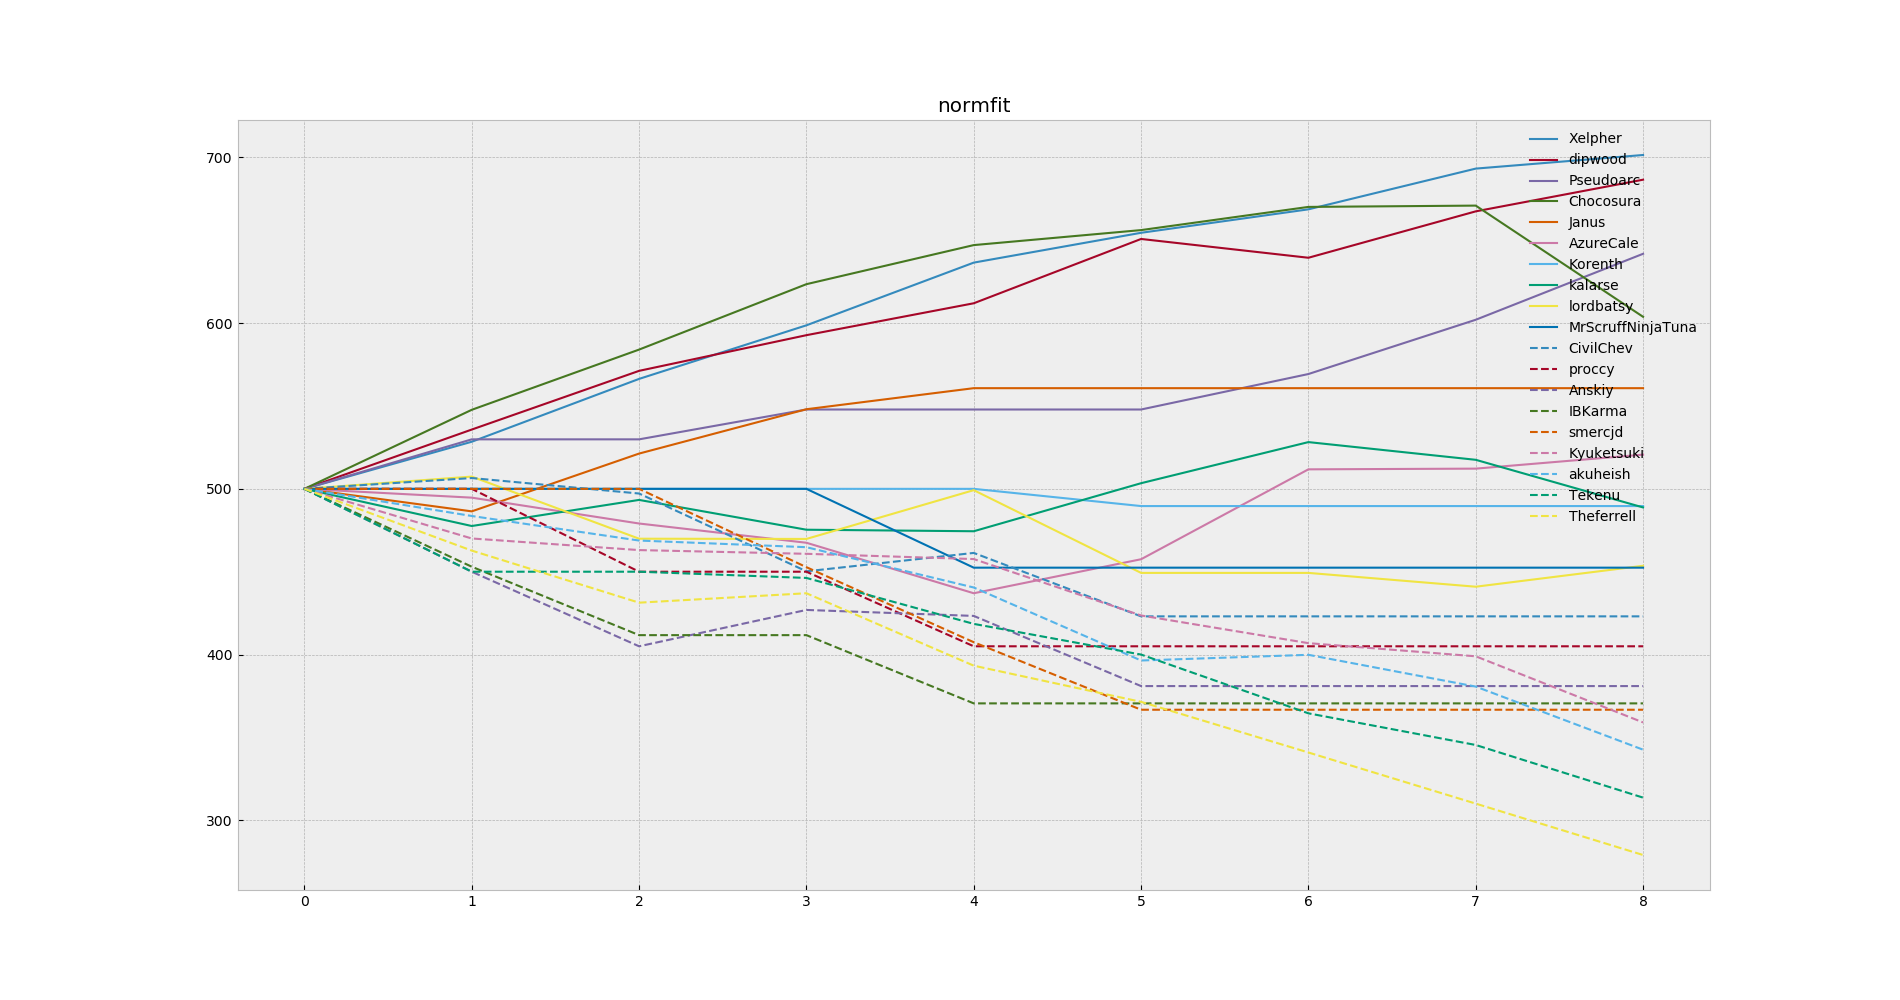
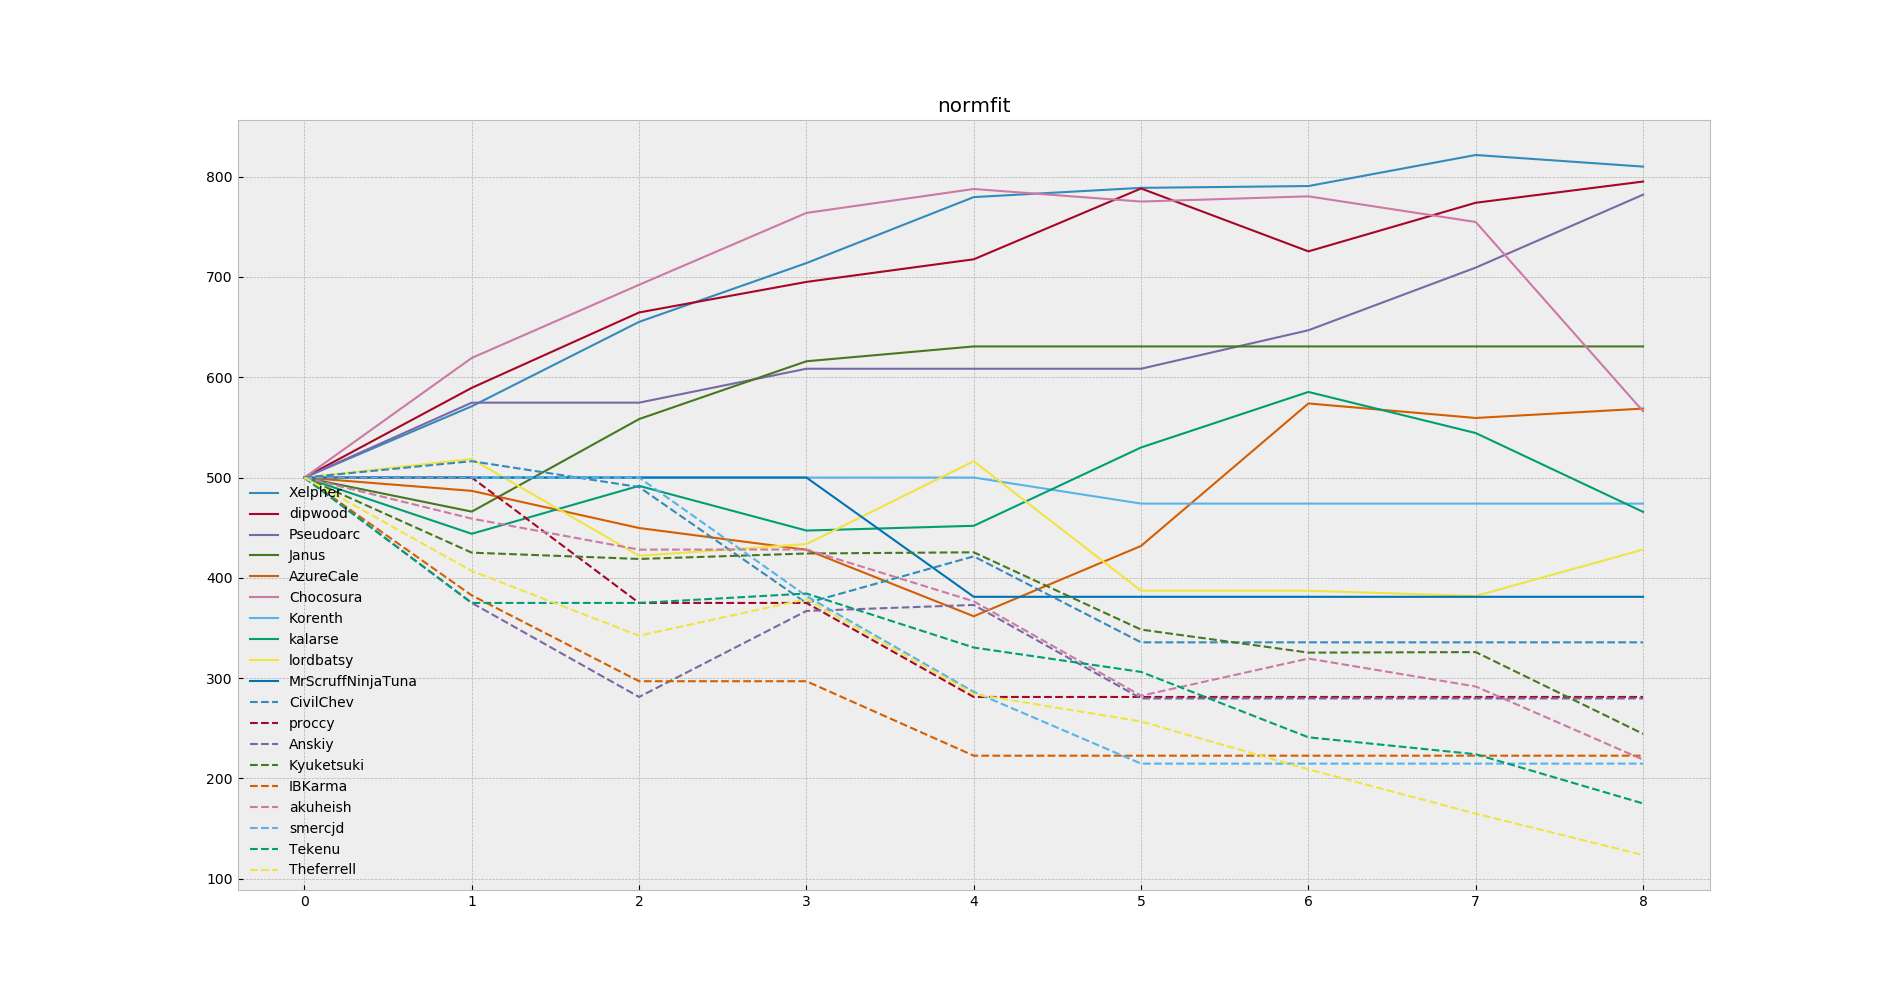
misc, most notably setting alpha to 0.25

diff --git a/plot_actuals.py b/plot_actuals.py
@@ -14,7 +14,7 @@ def plot_race(race, label, filename, fn):
     fig, ax = plt.subplots(1,1)
     ax.xaxis.set_major_formatter(tick.FuncFormatter(lambda x, pos: (datetime.datetime.min + datetime.timedelta(seconds=x)).strftime("%H:%M:%S")))
     ax.plot(ts_arr, n.pdf(ts_arr), 'k-', lw=2, alpha=0.6, label='pdf')
-    ax.hist(ts_arr, density=True, alpha=0.2)
+    ax.hist(ts_arr, density=True, alpha=0.2, bins=15)
     ax.legend(loc='best', frameon=False)
     plt.title(label)
     plt.savefig(filename)

diff --git a/preprocess.py b/preprocess.py
@@ -97,7 +97,7 @@ def miss_is_forfeit(races):
         race_players = util.finishers(race) | set(race["forfeits"])
         new = copy.deepcopy(races[r])
         for player in participants:
-            if player not in race_players:
+            if not race.get("incomplete", False) and player not in race_players:
                 new["forfeits"].append(player)
         new_r[r] = new
     return new_r

diff --git a/normfit.py b/normfit.py
@@ -58,7 +58,7 @@ def expected(rank, otherranks):
     return 100 * n.cdf(rank)
     #score(n, rank)
 
-def raceranks(races, startval=500, forfeit=0, alpha=0.1):
+def raceranks(races, startval=500, forfeit=0, alpha=0.25):
     ranks = [dict([(p, startval) for p in util.all_participating_players(races)])] + [None for r in range(len(races))]
 
     for r in range(len(races)):
